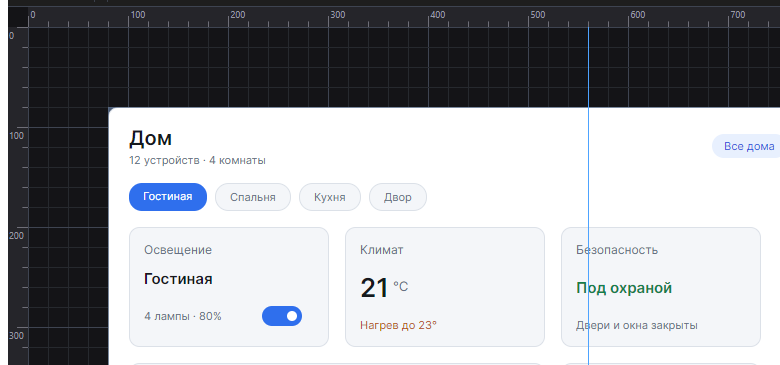
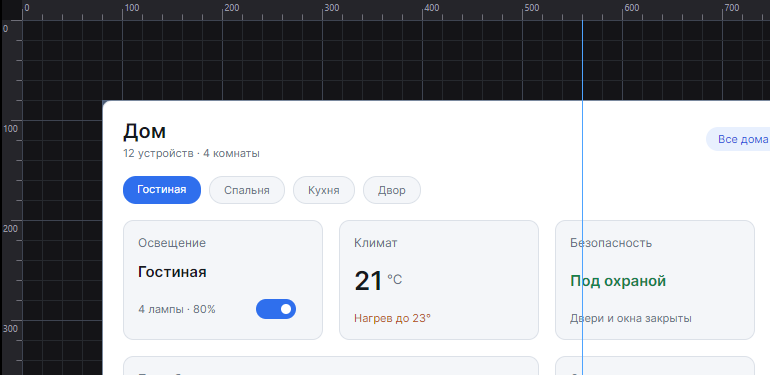
docs(demo): hide the guides and retake the screenshots
The demo set Guides and showed them, so blue lines lay across every
screenshot and read as part of the layout. The switch hides the display
without touching the set; this is the demo's default, not the library's —
a host that sets Guides expects to see them.

Screenshots now come from the window itself (PrintWindow) rather than the
screen. A screen copy takes whatever lies on top, and a foreign toast had
already reached a file bound for the repository. -Screen keeps the old
path for the context menu, which lives in its own window, and refuses the
shot when another process's window covers the demo.

diff --git a/samples/DesignEditor.Demo/ViewModels/MainWindowViewModel.cs b/samples/DesignEditor.Demo/ViewModels/MainWindowViewModel.cs
@@ -15,9 +15,13 @@ public partial class MainWindowViewModel : ObservableObject
     /// Пользовательские направляющие макета.
     /// </summary>
     /// <remarks>
-    /// Набором владеет хост, поэтому он и живёт здесь, а не в редакторе. Две линии
-    /// поставлены по левому краю колонки экранов и по верхней границе карточек —
-    /// к ним удобно подтягивать элементы, не выцеливая координату мышью.
+    /// Набором владеет хост, поэтому он и живёт здесь, а не в редакторе. Три линии
+    /// поставлены по краям колонок экранов — к ним удобно подтягивать элементы,
+    /// не выцеливая координату мышью.
+    ///
+    /// Показ по умолчанию выключен (<c>ShowGuides="False"</c> в разметке): набор
+    /// остаётся, но пустой холст встречает пользователя без лишних линий. Включается
+    /// переключателем <c>guides</c> в шапке.
     /// </remarks>
     public ObservableCollection<ArxisStudio.DesignGuide> Guides { get; } = new()
     {

diff --git a/CLAUDE.md b/CLAUDE.md
@@ -26,7 +26,7 @@ dotnet run --project samples/DesignEditor.Demo # запуск демо
 
 Библиотека открывает internals для тестовой сборки через `InternalsVisibleTo` в `src/Properties/AssemblyInfo.cs`.
 
-Демо остаётся для визуальной проверки рендера и тем — этого headless не покрывает. Оттуда же сняты скриншоты в `README.md` (`docs/images/`): пересобирать их надо после правок, меняющих вид — шапки, оверлеев, направляющих. Скиллы в `.claude/skills/`: `run-demo` (запуск демо, скриншот, клик, drag с модификаторами и зум по координатам окна, клавиши) и `avalonia-api` (сверка API между версиями Avalonia по пакетам NuGet).
+Демо остаётся для визуальной проверки рендера и тем — этого headless не покрывает. Оттуда же сняты скриншоты в `README.md` (`docs/images/`): пересобирать их надо после правок, меняющих вид — шапки, оверлеев, направляющих. Снимок берётся у **самого окна** через `PrintWindow`, а не с экрана: `CopyFromScreen` копирует пиксели по координатам, то есть всё, что лежит сверху, и всплывающее уведомление чужого приложения уезжало бы в репозиторий — это уже случилось однажды. Ключ `-Screen` возвращает захват с экрана и нужен ровно там, где содержимое лежит в отдельном окне (контекстное меню Avalonia — popup, `PrintWindow` главного окна его не видит); там перед копированием проверяется Z-порядок, и чужое окно над демо снимок отменяет. Скиллы в `.claude/skills/`: `run-demo` (запуск демо, скриншот, клик, drag с модификаторами и зум по координатам окна, клавиши) и `avalonia-api` (сверка API между версиями Avalonia по пакетам NuGet).
 
 У демо есть канал управления для проверки API вживую: `--automation <каталог>`. Он кладёт в каталог два файла — команда `command.json` и ответ `response.json` — и исполняет команды на UI-потоке. Без аргумента ничего не поднимается: ни таймера, ни подписок, ни файлов.
 
@@ -38,6 +38,8 @@ printf '%s' '{"name":"select","target":"PART_Border"}' > "$A/command.json"; slee
 Команды: `state`, `tree`, `select`, `selectContainer`, `clearSelection`, `setSelectedIndex`, `addSelectedItem`, `nudge`, `zorder`, `viewport`, `guides`, `events`. Ответ несёт оба слоя выделения и точные числа, поэтому проверяется не «похоже на правильное» по скриншоту, а конкретное значение. Запускать нужно **собранный exe**, а не `dotnet run` из шелла: процесс, породивший его, умирает вместе с командой и уносит демо.
 
 Чем это отличается от двух других способов проверки: headless-тест закрепляет поведение, скриншот проверяет рендер, канал отвечает на вопрос, что получает живой хост, вызывая публичный API. Все четыре дефекта выделения из этапа 2 плана были воспроизведены именно им — с числами, а не по картинке.
+
+Направляющие демо задаёт, но показ их выключен (`ShowGuides="False"`) — иначе синие линии лежат поверх каждого снимка и читаются как часть макета. Это умолчание **демо**, а не библиотеки: хост, задавший `Guides`, ожидает их увидеть, и скрытые по умолчанию выглядели бы как сломанное свойство.
 
 Демо — это дизайн интерфейса приложения для умного дома, разложенный по контейнерам: главный экран, экран устройства, диалог добавления, редактор сценария и библиотека компонентов. Разметка написана как обычные экраны приложения, без designer-метаданных: контейнеры стоят в `ContentMode="Loaded"`, поэтому редактируется всё дерево, а ввод гасит сам контейнер.
 

diff --git a/README.md b/README.md
@@ -20,7 +20,7 @@
 
 ![Общий вид редактора](docs/images/overview.png)
 
-Пять экранов приложения умного дома лежат на бесконечном холсте: каждый — отдельный `DesignEditorItem` с загруженной разметкой. По краям линейки, сверху шапка с шагом сетки, переключателями показа и масштабом. Синие линии — пользовательские направляющие, заданные хостом.
+Пять экранов приложения умного дома лежат на бесконечном холсте: каждый — отдельный `DesignEditorItem` с загруженной разметкой. По краям линейки, сверху шапка: в верхнем ряду шаг сетки, переключатели показа, масштаб, команды вида и отмена, в нижнем — что выбрано и какие у него числа. Пользовательские направляющие хост задал, но показ их выключен — за него отвечает переключатель `guides`.
 
 ### Выделение
 
@@ -416,7 +416,7 @@ editor.ReorderRequested += (_, e) =>
 
 ![Равные интервалы](docs/images/equal-spacing.png)
 
-Оба зазора вокруг перетаскиваемого экрана показаны отрезками с засечками: это измерение, а не ещё одна ось. Каждый отрезок лежит по середине полосы, общей у элемента и того соседа, до которого он меряет, — поэтому у разных по высоте соседей они и оказываются на разной высоте.
+Карточку «Климат» ведут внутри формы, и оба зазора вокруг неё — до ряда кнопок сверху и до карточки снизу — показаны отрезками с засечками: это измерение, а не ещё одна ось. Каждый отрезок лежит по середине полосы, общей у элемента и того соседа, до которого он меряет, — поэтому у разных по ширине соседей они и оказываются в разных местах. Серым пунктиром на том же кадре видно выравнивание по соседям в ряду: оси независимы, и одна занята выравниванием, пока другая занята интервалом.
 
 Когда элемент подводят к положению, при котором зазоры вокруг него становятся равными, он встаёт на него, а зазоры показываются отрезками с засечками — это измерение, а не ещё одна ось.
 

diff --git a/.claude/skills/run-demo/SKILL.md b/.claude/skills/run-demo/SKILL.md
@@ -39,6 +39,16 @@ powershell -ExecutionPolicy Bypass -File .claude/skills/run-demo/scripts/demo.ps
 
 Затем прочитать PNG инструментом Read — картинка видна напрямую.
 
+Снимок берётся у **самого окна** (`PrintWindow`), а не с экрана: захват по координатам копирует и то, что лежит сверху, — всплывающее уведомление чужого приложения однажды так и попало в файл, который шёл в репозиторий. Поэтому чужие окна в кадр не попадают вовсе, даже если демо не на переднем плане.
+
+Обратная сторона: содержимое, живущее в **отдельном окне**, `PrintWindow` не видит. У Avalonia это контекстное меню — оно popup. Для него есть `-Screen`:
+
+```bash
+powershell -ExecutionPolicy Bypass -File .claude/skills/run-demo/scripts/demo.ps1 -Action shot -Screen -Out "$TMP/menu.png"
+```
+
+Этот режим копирует с экрана, поэтому перед копированием проверяет Z-порядок: всякое видимое чужое окно, перекрывающее демо, снимок отменяет с ошибкой. Окна самой демо (её popup'ы) пропускаются — их-то и надо снять. Без нужды `-Screen` не включать.
+
 ### 4. Потыкать
 
 **Координаты — относительно окна, ровно как на скриншоте.** Скрипт сам добавляет позицию окна на экране. Это главная ловушка: окно почти никогда не в (0,0), и клик по «экранным» координатам уходит мимо.
